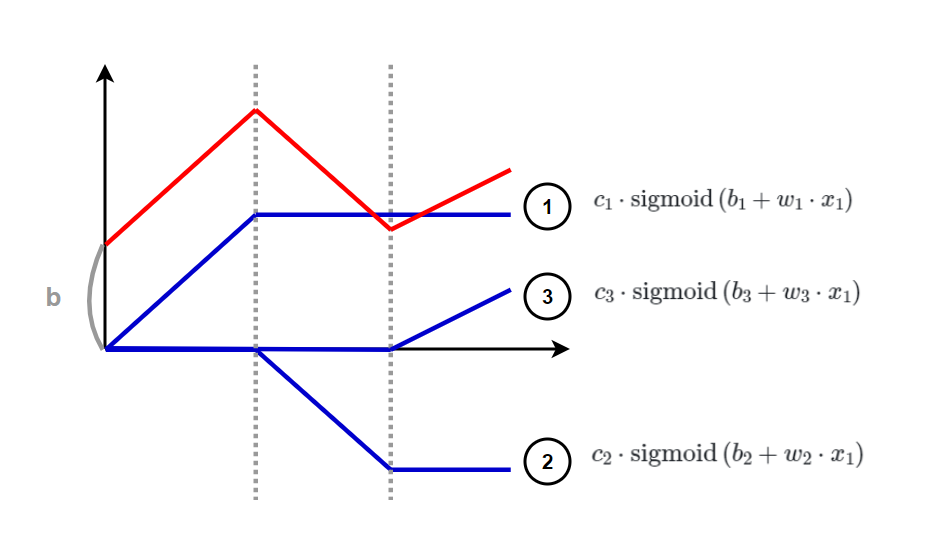
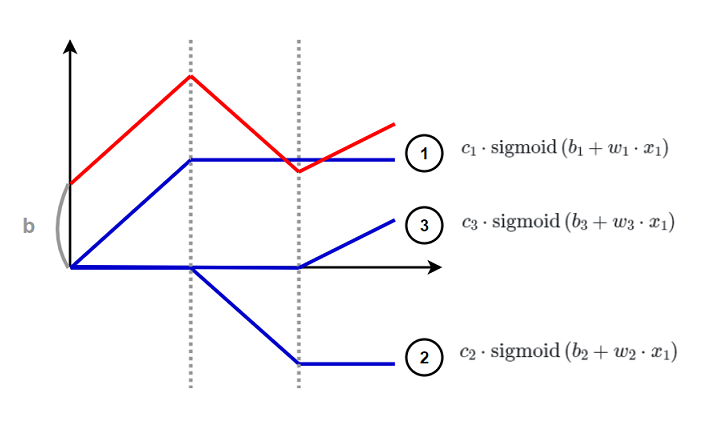
docs: resize doc image

diff --git a/0218_Lecture1-Introduction-of-Deep-Learning.md b/0218_Lecture1-Introduction-of-Deep-Learning.md
@@ -2,11 +2,15 @@
 
 ## Sigmoid Function
 
+![Sigmoid](./images/0218/01_sigmoid.png)  
+
+The sigmoid function is:  
+
 $$
 S(t) = \frac{1}{1 + e^{-t}}
 $$
 
-![Sigmoid](./images/0218/01_sigmoid.png)  
+
 The equation for the output \( y \) is:
 
 $$
